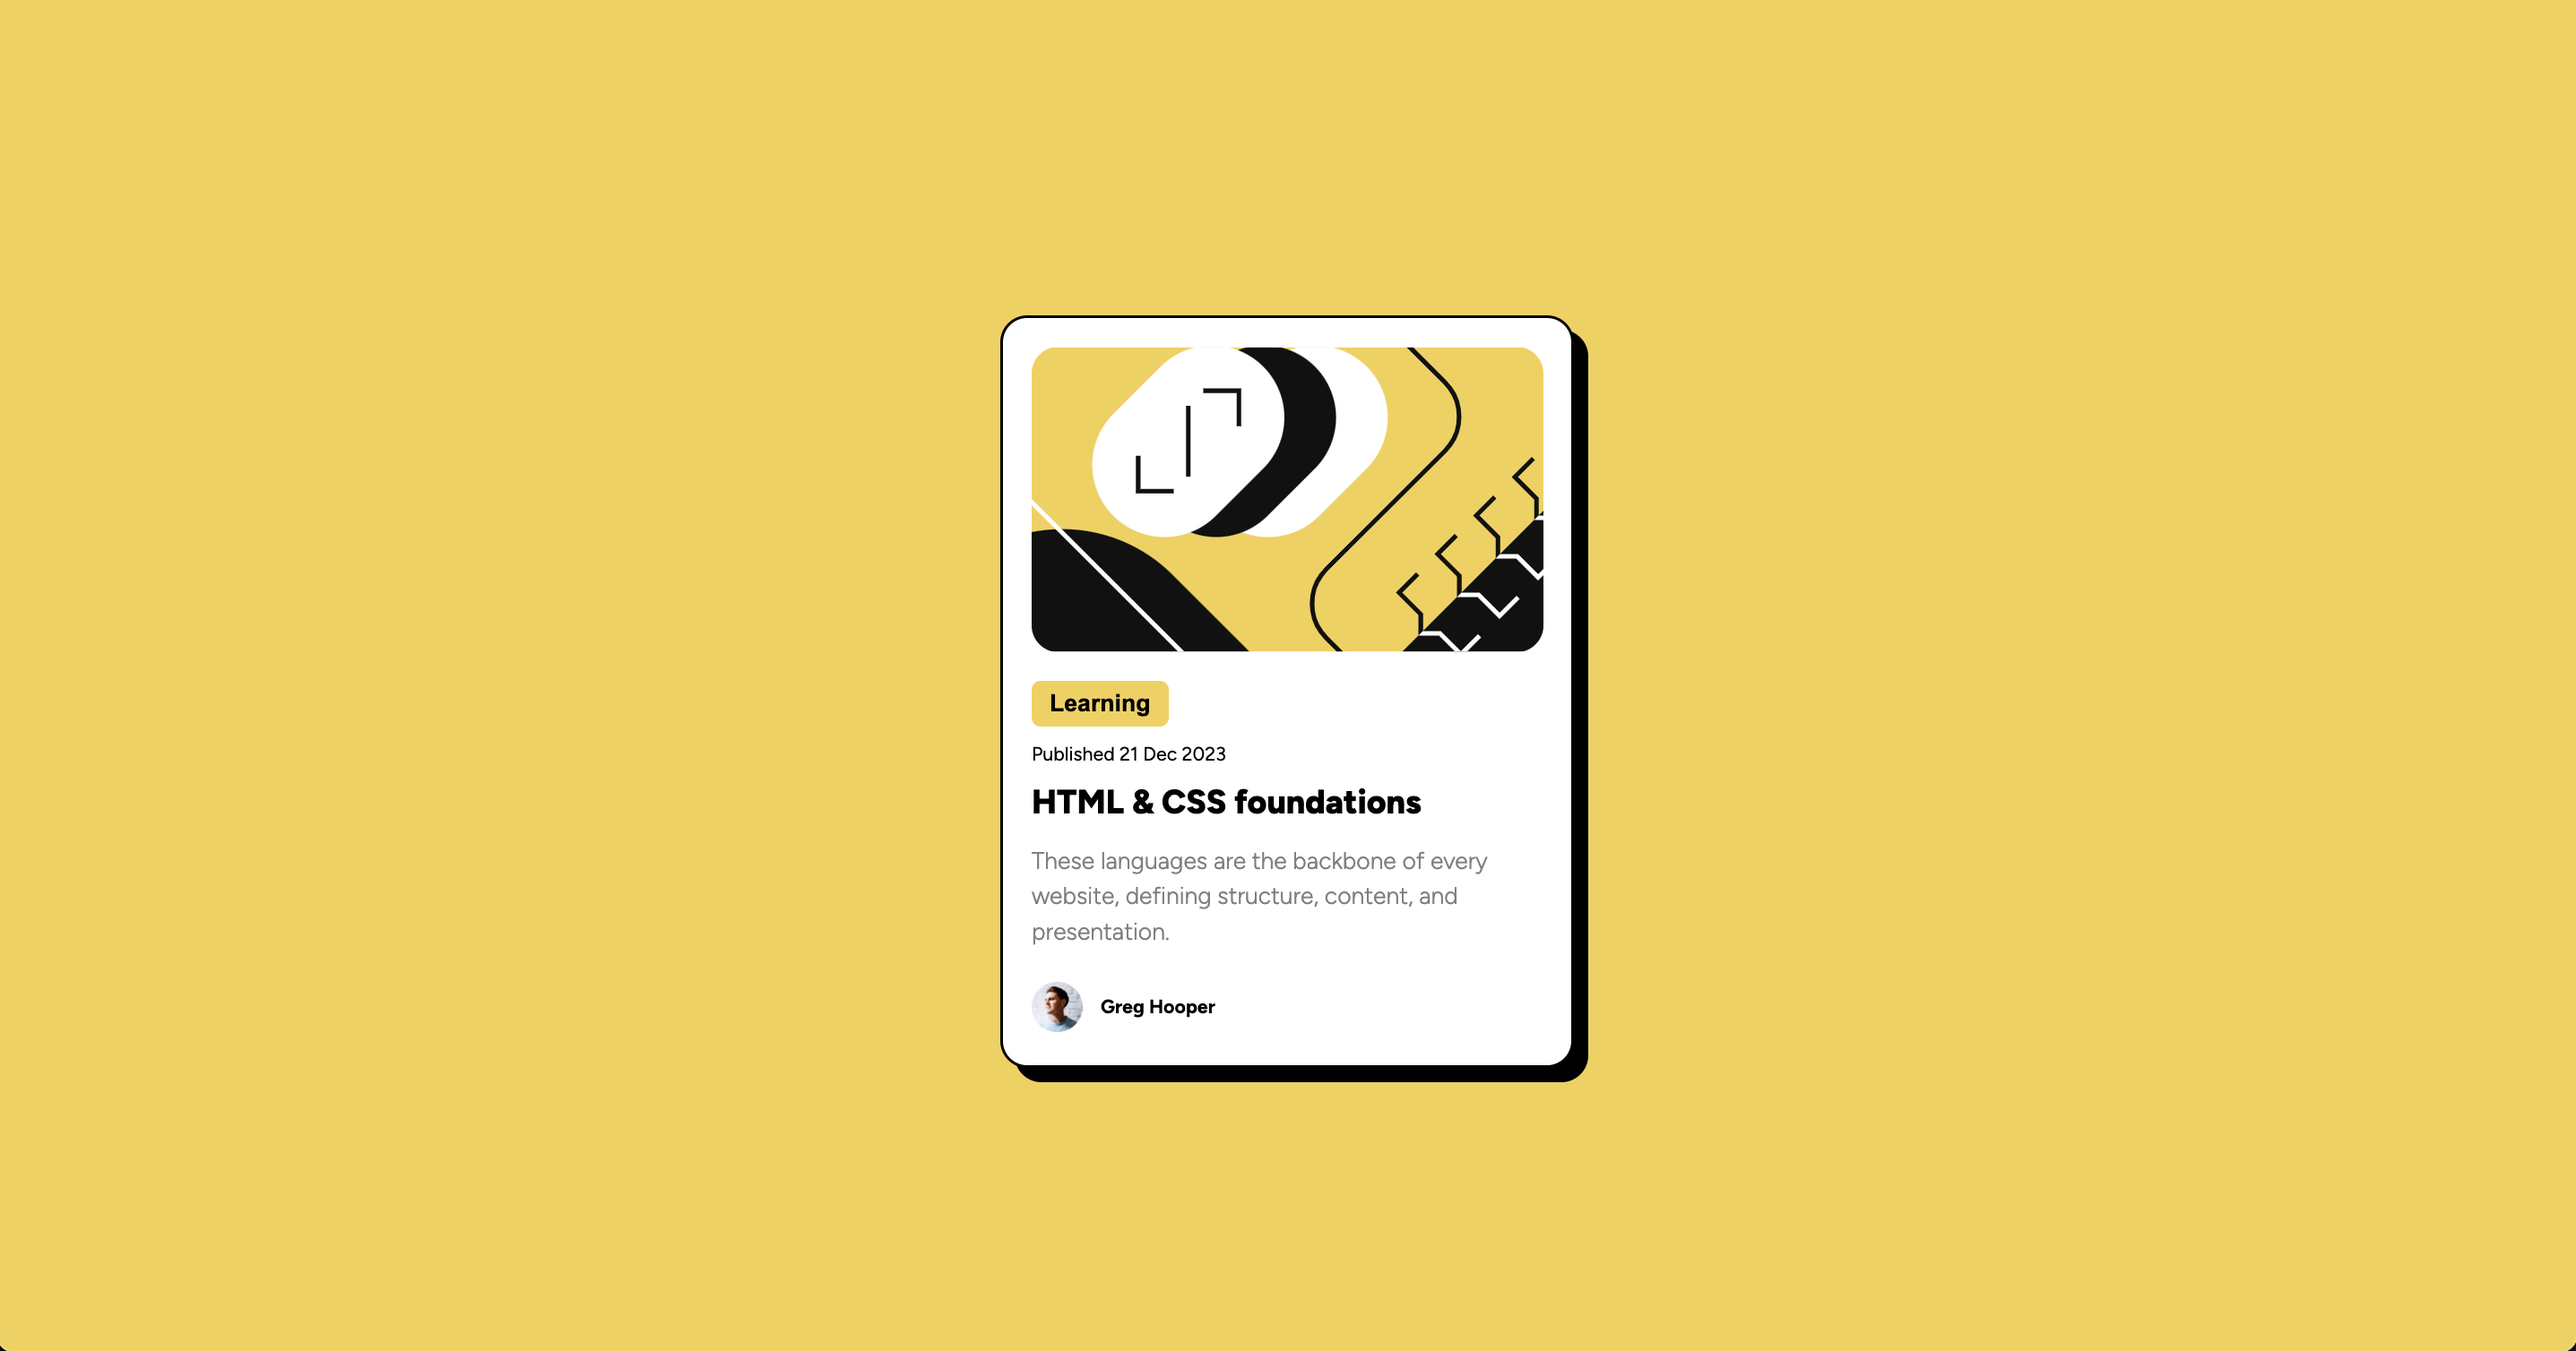
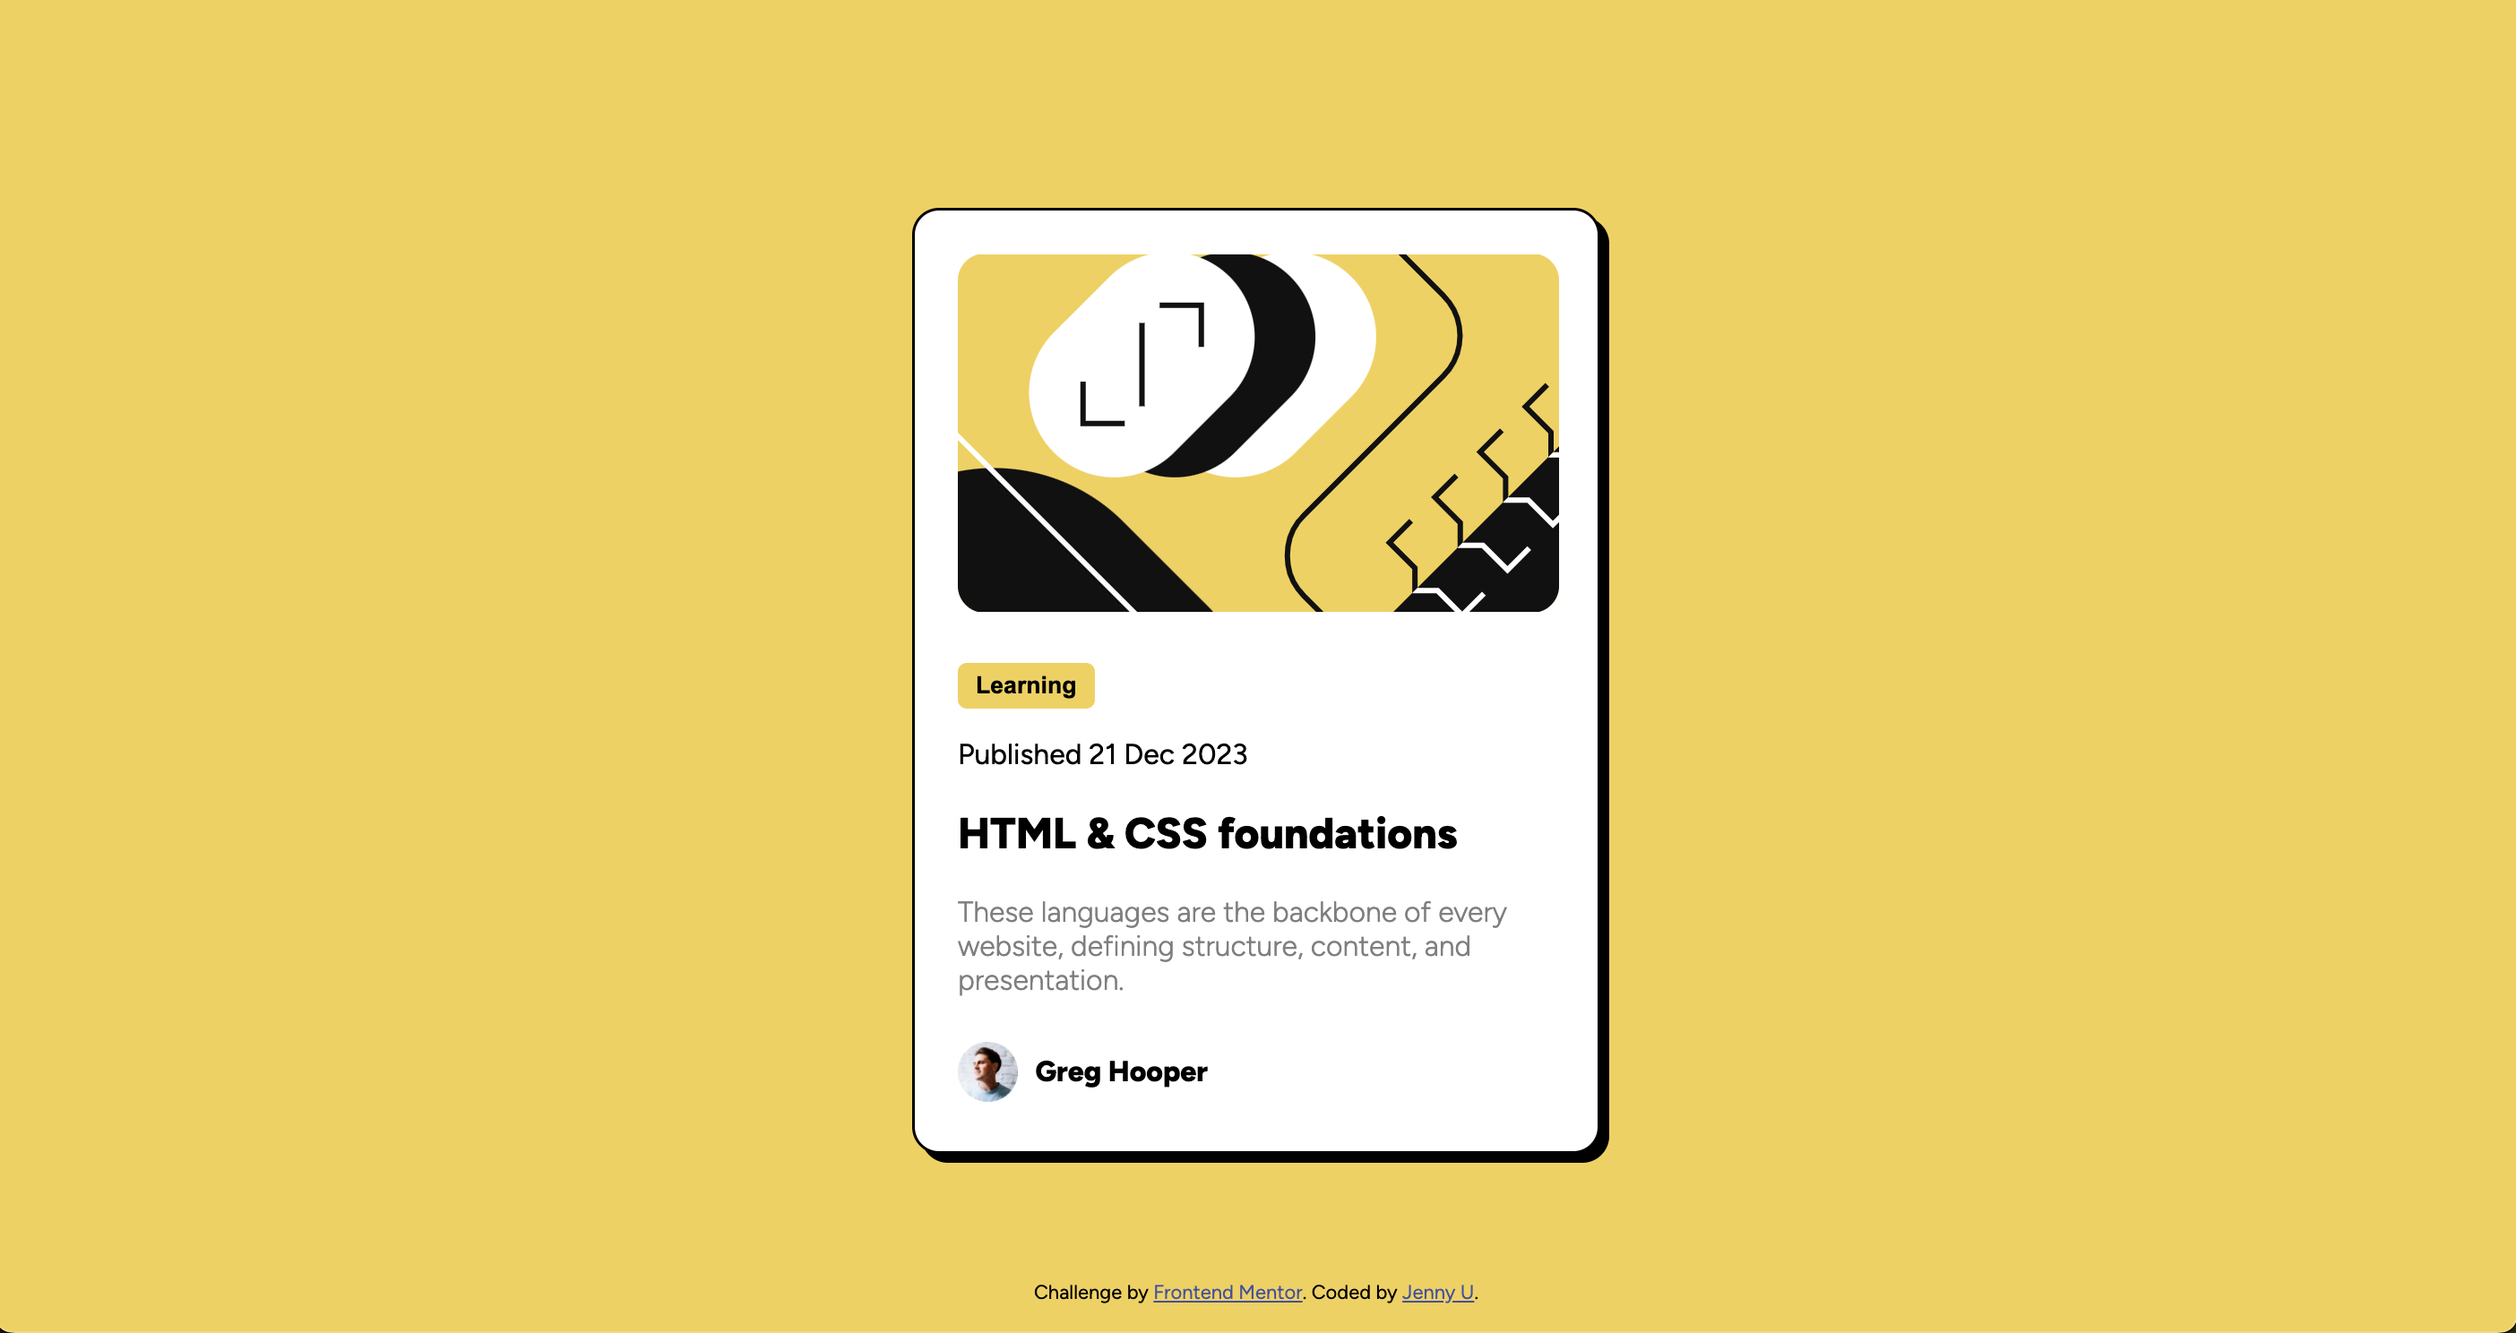
updated sizes and added shadow on hover. also replaced screenshot

Changed region(s): [[0.3408, 0.1546, 0.6506, 0.8965], [0.0, 0.9583, 1.0, 1.0]]

diff --git a/styles.css b/styles.css
@@ -1,41 +1,39 @@
 body {
     background-color: hsl(47, 88%, 63%);
+    min-height: 100vh;
     text-align: center;
-    display: flex;
-    flex-direction: column;
-    justify-content: center;
+    display: grid;
+    place-items: center;
     align-items: center;
     font-family: "Figtree", sans-serif;
+    font-size: 16px;
 
 }
 
 .container {
     background-color: white;
     box-sizing: border-box;
-    width: 320px;
-    height: 420px;
-    display: flex;
-    flex-direction: column;
-    justify-content: left;
-    margin-bottom: auto;
-    top: 50%;
-    transform: translateY(40%);
-    position: relative;
+    width: 384px;
+    height: 528px;
     border-radius: 15px;
     border: solid;
     border-color: black;
-    box-shadow: 8px 8px 0px black;
+    box-shadow: 5px 5px 0px black;
+}
+
+.container:hover {
+    box-shadow: 10px 10px 0px black;
 }
 
 .blog-image {
-    width: 90%;
+    width: 88%;
     height: auto;
-    margin: 16px 16px 0px 16px;
+    margin: 24px 24px 0px 24px;
     border-radius: 15px;
 }
 
 .text-block {
-    margin: 16px 16px 0px 16px;
+    margin: 24px 24px 0px 24px;
     text-align: left;
 }
 
@@ -48,16 +46,12 @@ body {
     margin-bottom: 0;
 }
 
-.date h6 {
+.date p {
     font-weight: 400;
-    line-height: 0.1;
-    margin-top: 15px;
 }
 
-.blog-title h3 {
+.blog-title h2 {
     font-weight: 800;
-    line-height: 0.1;
-    margin-bottom: 0;
 }
 
 .blog-title a {
@@ -69,11 +63,9 @@ body {
     color: hsl(47, 88%, 63%);
 }
 
-.summary h5 {
+.summary p {
     color: hsl(0, 0%, 50%);
-    line-height: 1.5;
     font-weight: 300;
-    margin-bottom: 0;
 }
 
 .author {
@@ -87,14 +79,17 @@ body {
     height: 10%;
 }
 
-.author h6 {
+.author p {
     margin-left: 10px;
     bottom: 50%;
+    font-weight: 800;
 }
 
 .attribution { 
     font-size: 11px; 
     text-align: center; 
+    position: absolute;
+    bottom: 16px;
 }
 
 .attribution a { 

diff --git a/index.html b/index.html
@@ -20,20 +20,20 @@
       </div>
       
       <div class="date">
-        <h6>Published 21 Dec 2023</h6>
+        <p>Published 21 Dec 2023</p>
       </div>
       
       <div class="blog-title">
-        <h3><a href="#">HTML & CSS foundations</a></h3>
+        <h2><a href="#">HTML & CSS foundations</a></h2>
       </div>
 
       <div class="summary">
-        <h5>These languages are the backbone of every website, defining structure, content, and presentation.</h5>
+        <p>These languages are the backbone of every website, defining structure, content, and presentation.</p>
       </div>
     
       <div class="author">
         <img src="./assets/images/image-avatar.webp" alt="profile image of Greg Hooper">
-        <h6>Greg Hooper</h6>
+        <p>Greg Hooper</p>
       </div>
     </div>
     
